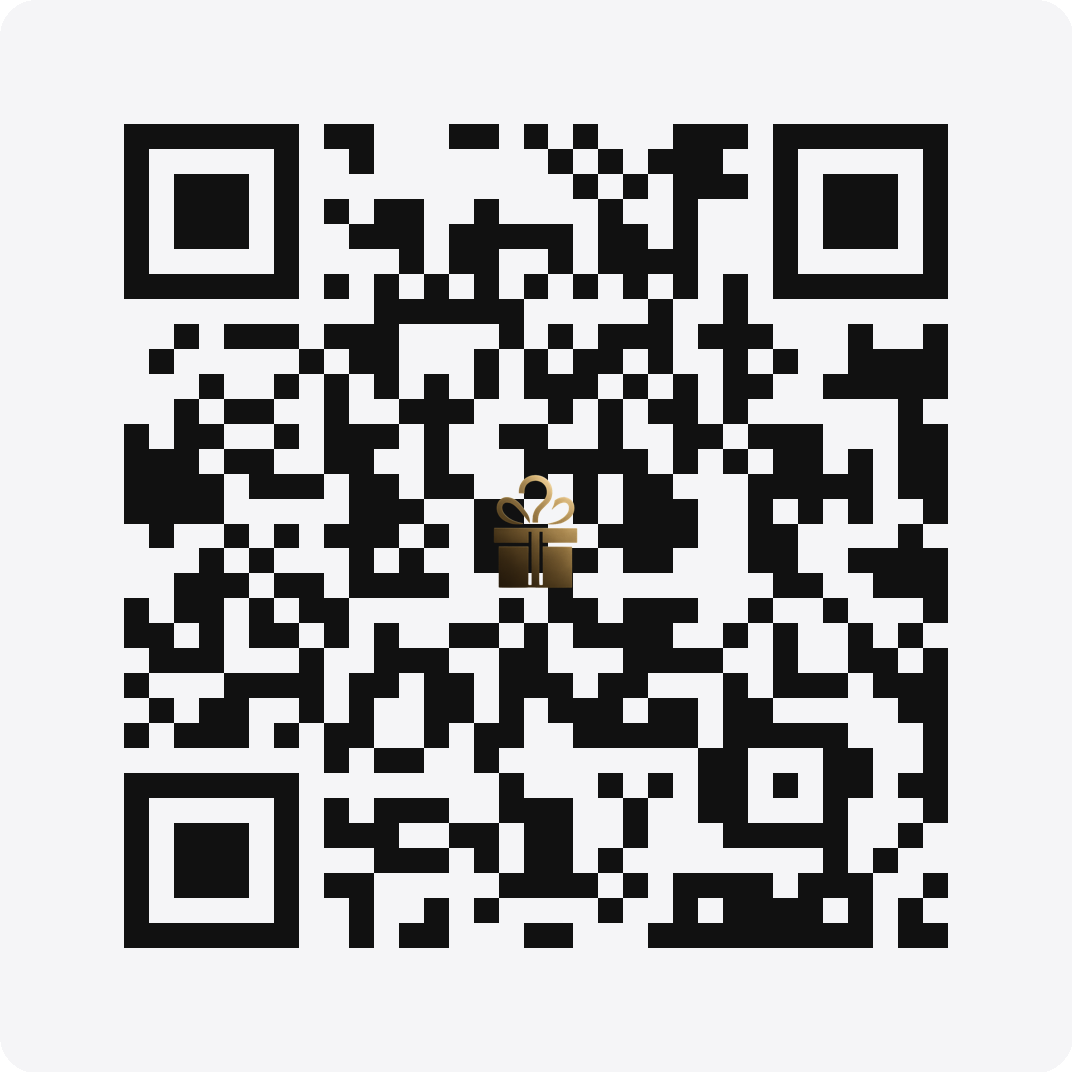
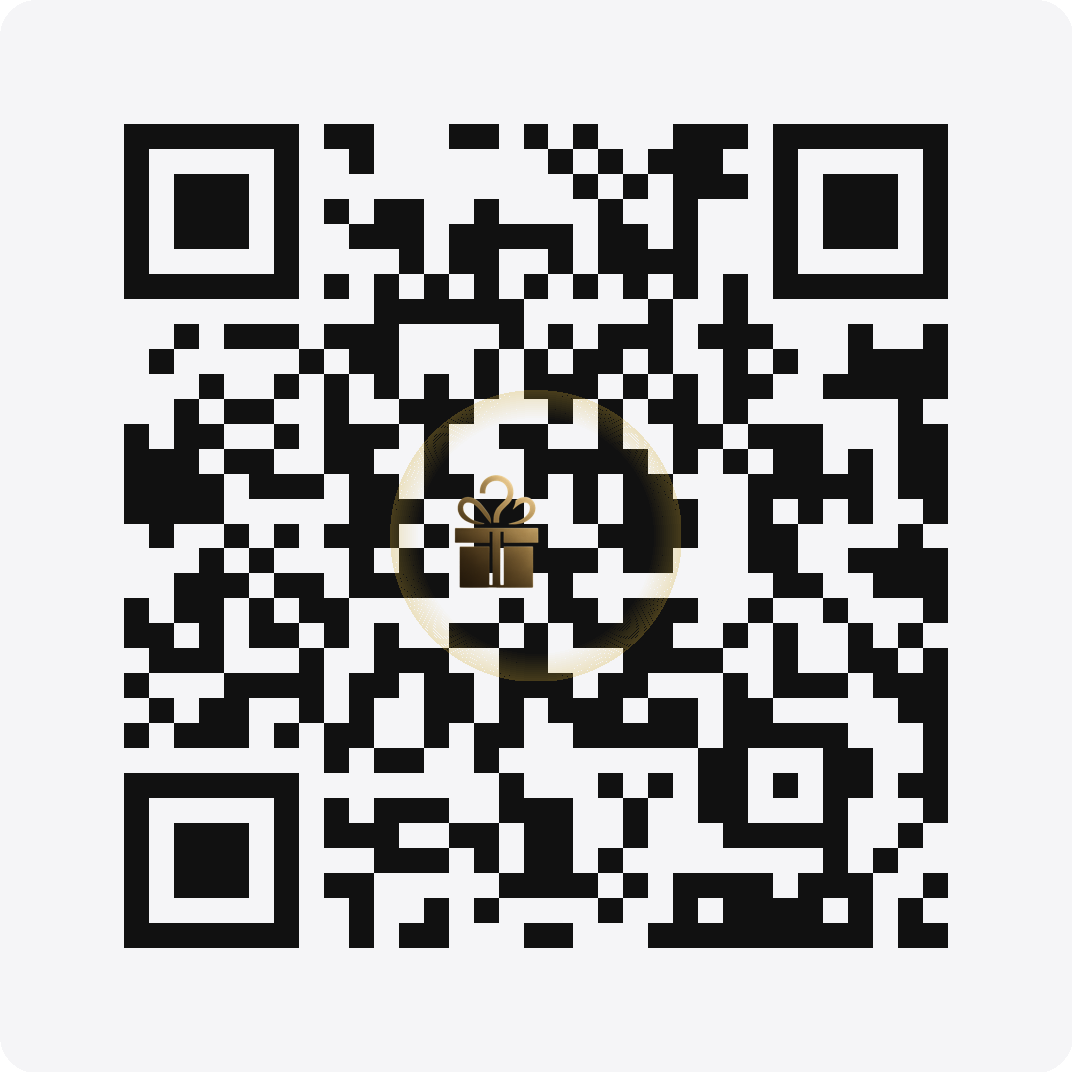
QR maps + /c routes

diff --git a/tools/qr_generator/make_qrs_styled.py b/tools/qr_generator/make_qrs_styled.py
@@ -5,34 +5,38 @@
 # Erzeugt QR-Codes im Dark-Style:
 # - Variante A: Standard (dunkel auf hell) + HALO (heller Freisteller) für dunkle Hintergründe
 # - Variante B: ECHT invertiert (hell auf dunkel) – mit Hinweis: weniger robust
-# - Logo: freigestellt/transparent, mittig (kein Teller)
+# - Logo: freigestellt/transparent, mittig (kein Teller) + optional goldener Glow
 #
-# Usage-Beispiele siehe README / Befehlszeilen-Flags unten.
+# Usage:
+# python make_qrs_styled.py --map qr_map_dark.json --out qr_out_dark_theme \
+#   --fg "#111111" --bg "#f5f5f7" --halo 24 --halo-color "#f5f5f7" \
+#   --logo "assets/tmc_logo.png" --logo-scale 0.22 --size 1024 --border 4
 
 import os, json
 from PIL import Image, ImageDraw, ImageOps
 import qrcode
 from qrcode.constants import ERROR_CORRECT_H
 
-# ---------- Konfiguration ----------
+# ---------- Standard-Konfiguration ----------
 DEFAULTS = {
     "out_dir": "qr_out_dark",
-    "size_px": 1024,           # endgültige Kantenlänge
-    "box_size": 20,            # QR-Modulgröße (wird von qrcode verwendet)
+    "size_px": 1024,           # Endgröße in Pixel
+    "box_size": 20,            # QR-Modulgröße
     "border": 4,               # Ruhezone (in Modulen)
     "error_correction": ERROR_CORRECT_H,
     # Farben
-    "fg": "#111111",           # Vordergrund (Module)
-    "bg": "#f5f5f7",           # Hintergrund (Ruhezone)
-    # HALO: Helle Fläche hinter dem QR (für Variante A)
-    "halo_px": 0,              # 0 = aus | 12..24 sehr gut | 0 = echte Invertierung möglich
+    "fg": "#111111",           # QR-Vordergrund
+    "bg": "#f5f5f7",           # QR-Hintergrund
+    # HALO (heller Rand für dunkle Umgebungen)
+    "halo_px": 0,              # 0 = aus | 12–24 = weich
     "halo_color": "#f5f5f7",
-    "halo_radius": 36,         # Rundung des Halo-Rechtecks
-    # Logo (freigestellt)
-    "logo_path": None,         # z.B. "assets/tmc_logo.png" (PNG mit Transparenz empfohlen)
-    "logo_scale": 0.22,        # Anteil an der QR-Kantenlänge
+    "halo_radius": 36,
+    # Logo
+    "logo_path": None,         # z.B. "assets/tmc_logo.png"
+    "logo_scale": 0.22,        # Anteil am QR (0.2 = 20%)
 }
 
+# ---------- QR-Code-Erstellung ----------
 def make_qr(url, cfg):
     qr = qrcode.QRCode(
         version=None,
@@ -43,64 +47,63 @@ def make_qr(url, cfg):
     qr.add_data(url)
     qr.make(fit=True)
     img = qr.make_image(fill_color=cfg["fg"], back_color=cfg["bg"]).convert("RGBA")
-
-    # auf gewünschte Größe skalieren
     img = img.resize((cfg["size_px"], cfg["size_px"]), Image.NEAREST)
 
-    # HALO (Variante A): heller Freisteller hinter den QR kleben (für dunkle Umgebungen)
+    # HALO: heller Freisteller-Hintergrund (optional)
     if cfg["halo_px"] > 0:
         pad = cfg["halo_px"]
         W = cfg["size_px"] + pad * 2
         H = cfg["size_px"] + pad * 2
         canvas = Image.new("RGBA", (W, H), (0, 0, 0, 0))
-        # abgerundetes helles Rechteck
         rr = cfg["halo_radius"]
         halo = Image.new("RGBA", (W, H), (0, 0, 0, 0))
         d = ImageDraw.Draw(halo)
         d.rounded_rectangle([0, 0, W, H], radius=rr, fill=cfg["halo_color"])
         canvas.alpha_composite(halo, (0, 0))
-        # QR drauf
         canvas.alpha_composite(img, (pad, pad))
         img = canvas
 
-    # Logo freigestellt (kein Teller): transparentes PNG empfohlen
+    # Logo freigestellt + goldener Glow
     if cfg["logo_path"] and os.path.exists(cfg["logo_path"]):
         logo = Image.open(cfg["logo_path"]).convert("RGBA")
         L = int(min(img.size) * cfg["logo_scale"])
-        # Logo proportional einpassen
         logo = ImageOps.contain(logo, (L, L))
-        # goldener Glow erzeugen (leicht weichgezeichnet)
-    glow_radius = int(L * 0.12)  # Größe des Glow-Rands
-    glow = Image.new("RGBA", (L + glow_radius * 2, L + glow_radius * 2), (0, 0, 0, 0))
-    draw = ImageDraw.Draw(glow)
 
-    # goldene Farbe (leicht transparent)
-    gold_color = (212, 175, 55, 90)
-    for r in range(glow_radius, 0, -2):
-        alpha = int(70 * (r / glow_radius))
-        color = (gold_color[0], gold_color[1], gold_color[2], alpha)
-        draw.ellipse(
-            (glow_radius - r, glow_radius - r, glow_radius + L + r, glow_radius + L + r),
-            outline=color,
-            width=2,
-        )
+        # goldener Glow erzeugen
+        glow_radius = int(L * 0.12)
+        glow = Image.new("RGBA", (L + glow_radius * 2, L + glow_radius * 2), (0, 0, 0, 0))
+        draw = ImageDraw.Draw(glow)
 
-    # Logo auf Glow-Ebene mittig setzen
-    glow.alpha_composite(logo, (glow_radius, glow_radius))
-        # mittig auf QR setzen
-        x = (img.size[0] - logo.size[0]) // 2
-        y = (img.size[1] - logo.size[1]) // 2
-        img.alpha_composite(logo, (x, y))
+        # Goldton (dezent transparent)
+        gold_color = (212, 175, 55, 90)
+        for r in range(glow_radius, 0, -2):
+            alpha = int(70 * (r / glow_radius))
+            color = (gold_color[0], gold_color[1], gold_color[2], alpha)
+            draw.ellipse(
+                (glow_radius - r, glow_radius - r, glow_radius + L + r, glow_radius + L + r),
+                outline=color,
+                width=2,
+            )
+
+        # Logo auf Glow-Ebene mittig setzen
+        glow.alpha_composite(logo, (glow_radius, glow_radius))
+
+        # Glow mittig auf QR platzieren
+        x = (img.size[0] - glow.size[0]) // 2
+        y = (img.size[1] - glow.size[1]) // 2
+        img.alpha_composite(glow, (x, y))
 
     return img
 
+# ---------- Speichern ----------
 def save_png(img, path):
     os.makedirs(os.path.dirname(path), exist_ok=True)
     img.save(path, optimize=True)
 
+# ---------- Main ----------
 def main():
     import argparse
-    p = argparse.ArgumentParser(description="Erzeuge Dark-Style QR-Codes (Halo-Option, invertierbar, Logo freigestellt)")
+    p = argparse.ArgumentParser(description="Erzeuge Dark-Style QR-Codes (Halo optional, invertierbar, mit Glow)")
     p.add_argument("--map", help="JSON-Datei: [{'name':'Mannheim-01','url':'https://themysterycode.de/c/101'}, ...]")
     p.add_argument("--out", default=DEFAULTS["out_dir"])
     p.add_argument("--fg", default=DEFAULTS["fg"])
@@ -131,7 +134,7 @@ def main():
 
     for e in entries:
         name = e["name"]
-        url  = e["url"]
+        url = e["url"]
         img = make_qr(url, cfg)
         out_path = os.path.join(args.out, f"{name}.png")
         save_png(img, out_path)
